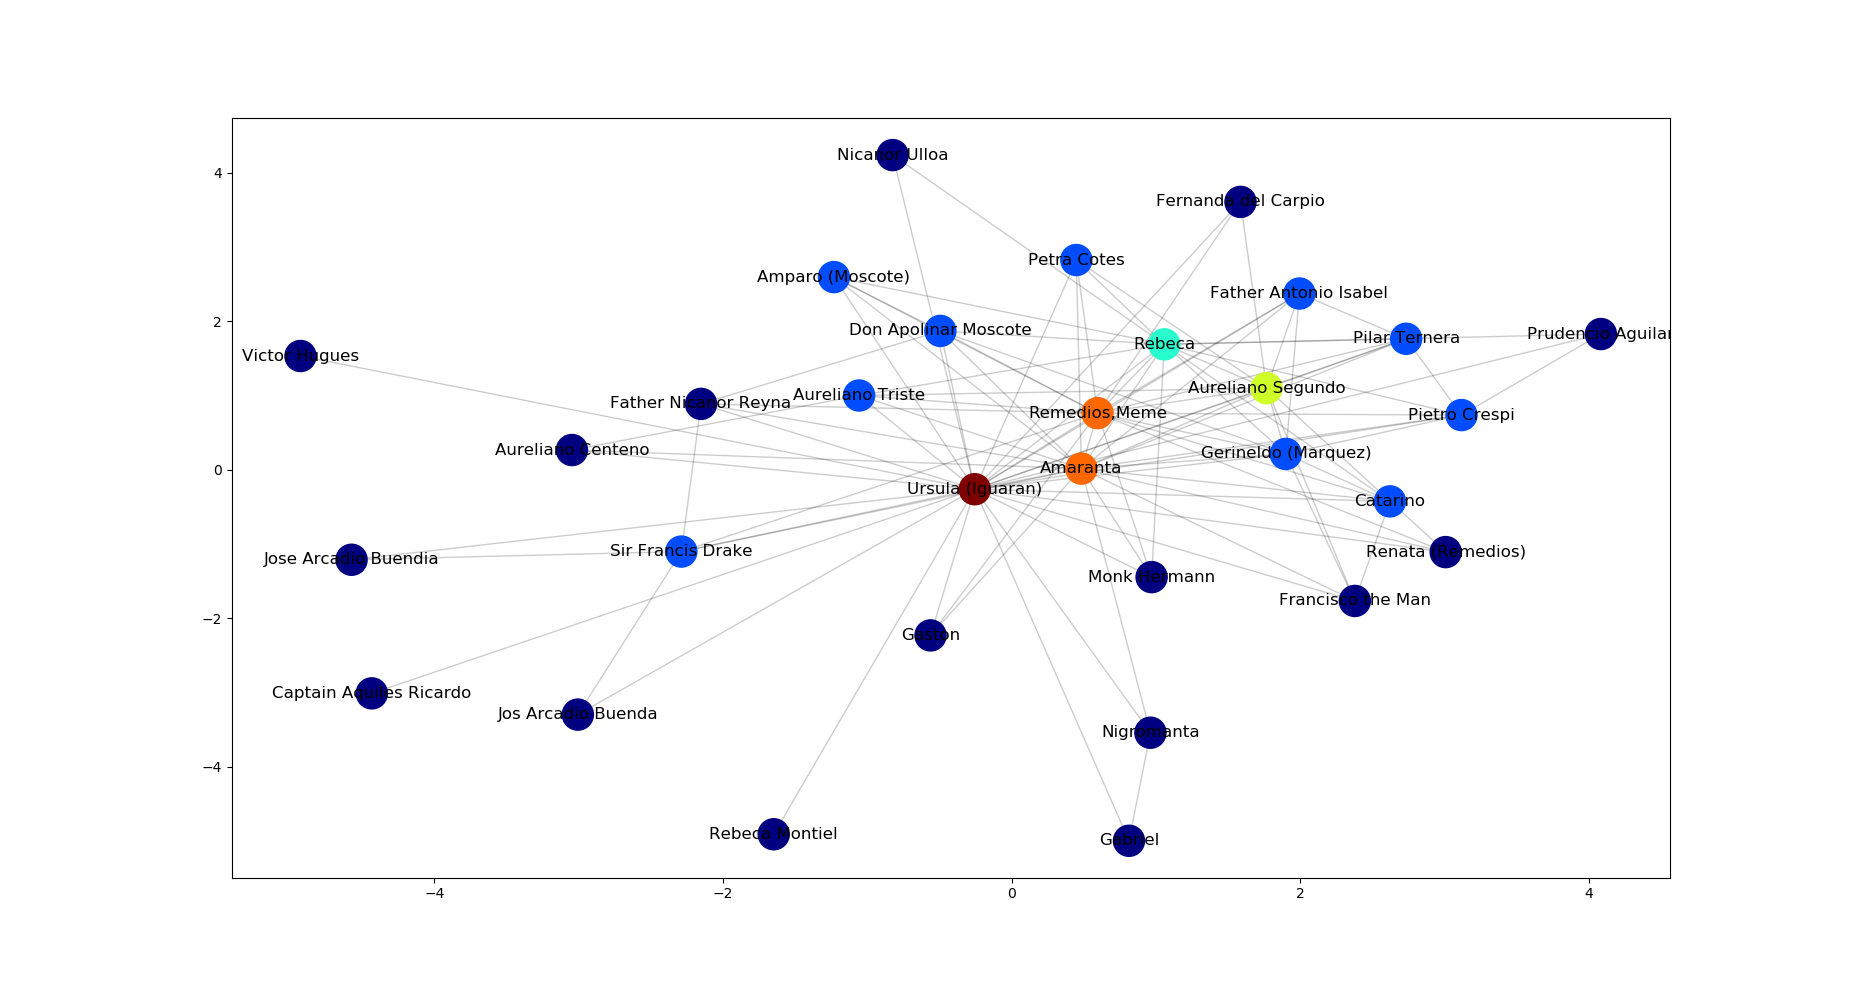
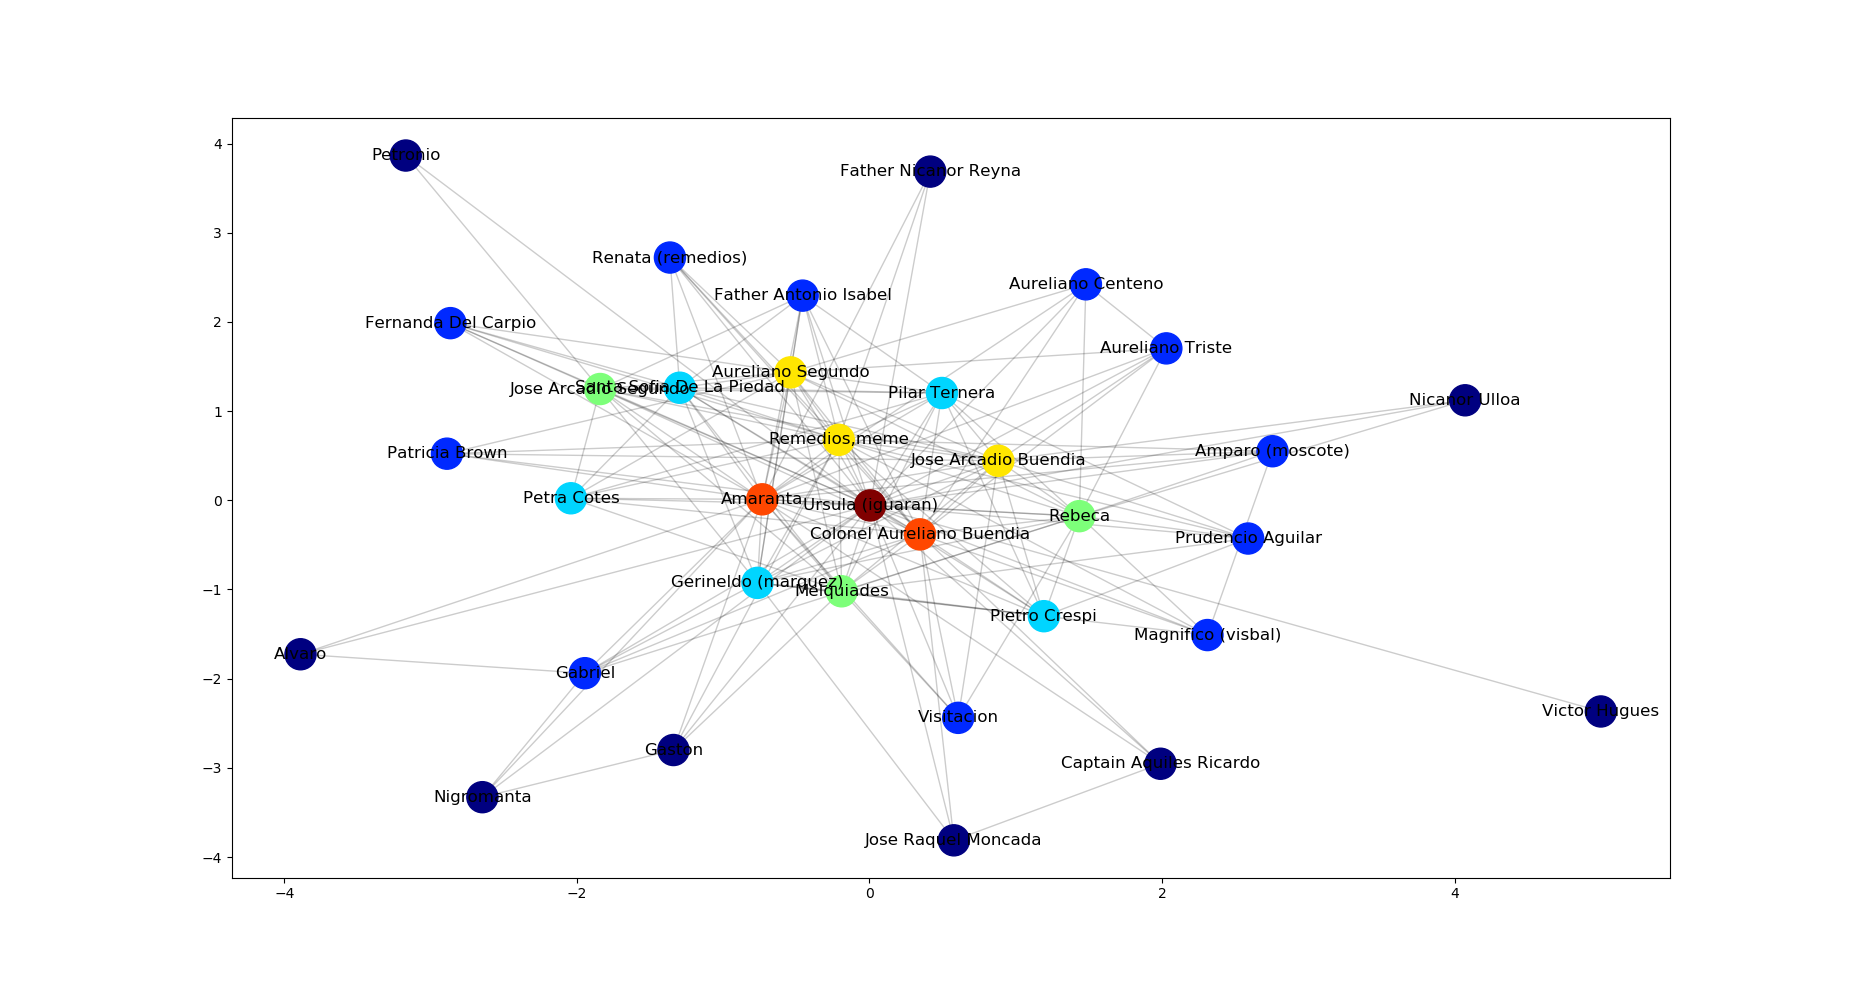
fixed graph

diff --git a/graph.py b/graph.py
@@ -3,6 +3,7 @@ import nltk
 import codecs
 from operator import itemgetter
 import pandas as pd
+import string
 def build_regexp(c):
     """
     Creates the appropriate regex for the expressions
@@ -22,9 +23,9 @@ def build_regexp(c):
 
 ## save everything
 with codecs.open('characters_list.txt', encoding='iso-8859-1') as x:
-    characters = [l.strip() for l in x]
+    characters = [l.strip().lower() for l in x]
 
-with codecs.open('book.txt', encoding='iso-8859-1') as x:
+with codecs.open('processed_book.txt', encoding='iso-8859-1') as x:
     text = [l.strip() for l in x]
 raw = ' '.join(text)
 
@@ -36,7 +37,6 @@ for it, c in enumerate(characters):
     template = '{}'.format(it)
     regexp = re.compile(build_regexp(c))
     raw = re.sub(regexp, template, raw)
-
 
 
 
@@ -74,31 +74,82 @@ class Graph:
 				del self.edges[n][node]
 
 	def rename_node(self, new_name, old_name):
+		new_name =new_name
+		old_name = old_name.lower()
 		if old_name in self.vertices:
 			self.vertices.remove(old_name)
 			self.vertices.add(new_name)
 
 		if old_name in self.edges:
 			self.edges[new_name] = self.edges[old_name]
-
+			del self.edges[old_name]
 		for n in self.edges:
 			if old_name in self.edges[n]:
 				self.edges[n][new_name] = self.edges[n][old_name]
+				del self.edges[n][old_name]
 
 
+	def capitalize(self):
 
+		vertices = set()
+		for n in self.vertices:
+			names = n.split(" ")
+			capital = []
+			for i in names:
+				capital.append(i.capitalize())
+
+			new_name = " ".join(capital)
+
+			vertices.add(new_name)
+
+		edges = {}
+
+		mapping = {}
+		for k in self.edges:
+			names = k.split(" ")
+			capital = []
+			for i in names:
+				capital.append(i.capitalize())
+
+			new_name = " ".join(capital)
+
+			edges[new_name] = {}	
+
+			mapping[k] = new_name
+		
+
+		for k in self.edges:
+			edges[mapping[k]] = []
+			for n in self.edges[k]:
+
+				names = n.split(" ")
+				capital = []
+				for i in names:
+					capital.append(i.capitalize())
+
+				new_name = " ".join(capital)
+
+				edges[mapping[k]].append(new_name)	
+
+		
+		self.edges = edges
+		self.vertices = vertices
 # build the graph
 g = Graph()
 # add nodes
+
 for c in characters:
-    g.add_node(c)
+	g.add_node(c)
+	print(c)
 
 # tokenize the text
 words = [n for n in nltk.word_tokenize(raw) if n != ',' and n != '.']
 
+print(words)
 # utils list
 characters_rep = [str(i) for i in range(len(characters))]
 
+print(characters_rep)
 # forward threshold
 fwd_t = 30
 # check for each character
@@ -126,12 +177,13 @@ for node in removed:
         g.remove_node(node)
 print('Total characters minus solitude nodes:', len(g.nodes()))
 
-tups = [("Melquades", "Melquiades"), ("Jos Arcadio Buenda", 'Jose Arcadio Buendia'), ("Colonel Aureliano Buenda", 'Colonel Aureliano Buendia'), ("Visitacon", 'Visitacion'), ("Seora (Moscote)", "Senora (Moscote)"),("Santa Sofa de la Piedad", "Santa Sofia de la Piedad"), ("Magnfico", "Magnifico"), ("Gerineldo (Mrquez)", "Gerineldo (Marquez)"), ("Colonel Gerineldo Mrquez", "Colonel Gerineldo Marquez"), ("Jos Arcadio Segundo", "Jose Arcadio Segundo"), ("Jos Raquel Moncada", "Jose Raquel Moncada"), ("lvaro", "Alvaro"), ("Germn", "German"), ("Doa Fernanda del Carpio de Buenda", "Dona Fernanda del Carpio de Buendia"), ("rsula (Iguarn)", "Ursula (Iguaran)")]
+tups = [("Melquades", "Melquiades"), ("Jos Arcadio Buenda", 'Jose Arcadio Buendia'), ("Colonel Aureliano Buenda", 'Colonel Aureliano Buendia'), ("Visitacin", 'Visitacion'), ("Seora (Moscote)", "Senora (Moscote)"),("Santa Sofa de la Piedad", "Santa Sofia de la Piedad"), ("Magnfico (Visbal)", "Magnifico (Visbal)"), ("Gerineldo (Mrquez)", "Gerineldo (Marquez)"), ("Colonel Gerineldo Mrquez", "Colonel Gerineldo Marquez"), ("Jos Arcadio Segundo", "Jose Arcadio Segundo"), ("Jos Raquel Moncada", "Jose Raquel Moncada"), ("lvaro", "Alvaro"), ("Germn", "German"), ("Doa Fernanda del Carpio de Buenda", "Dona Fernanda del Carpio de Buendia"), ("rsula (Iguarn)", "Ursula (Iguaran)")]
 for i in tups:
 	old_name, new_name = i
 
 	g.rename_node(new_name, old_name)
 
+g.capitalize()
 import networkx as nx 
 import matplotlib.pyplot as plt
 graph = nx.Graph()
@@ -142,9 +194,6 @@ for i in g.edges:
 
 node_and_degree = graph.degree()
 
-print(graph.nodes())
-graph.remove_node(u"rsula (Iguarn)")
-graph.remove_node(u"Gerineldo (Mrquez)")
 colors = {}
 colors['ID'] = []
 colors['myvalue'] = []
